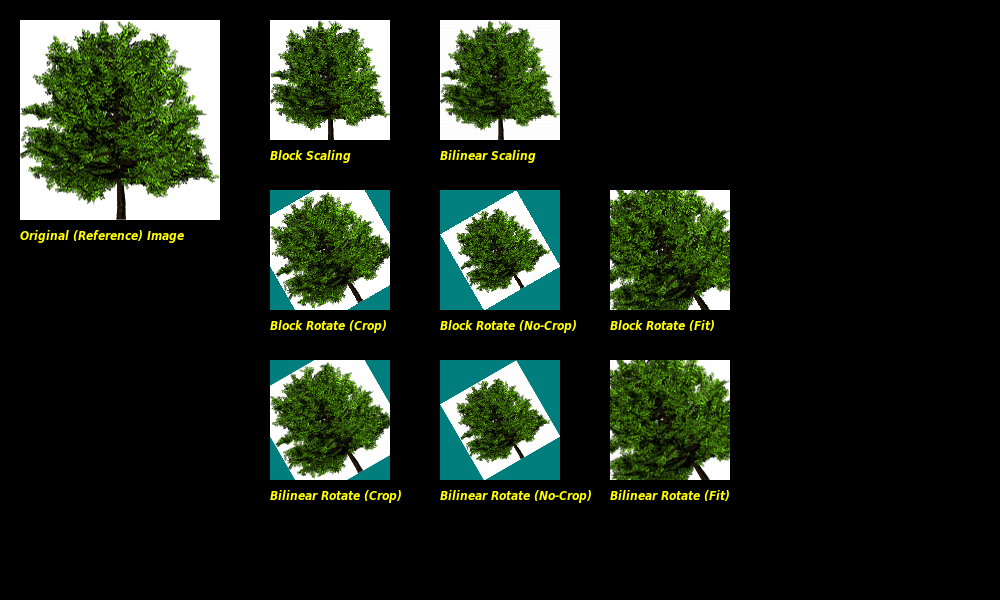
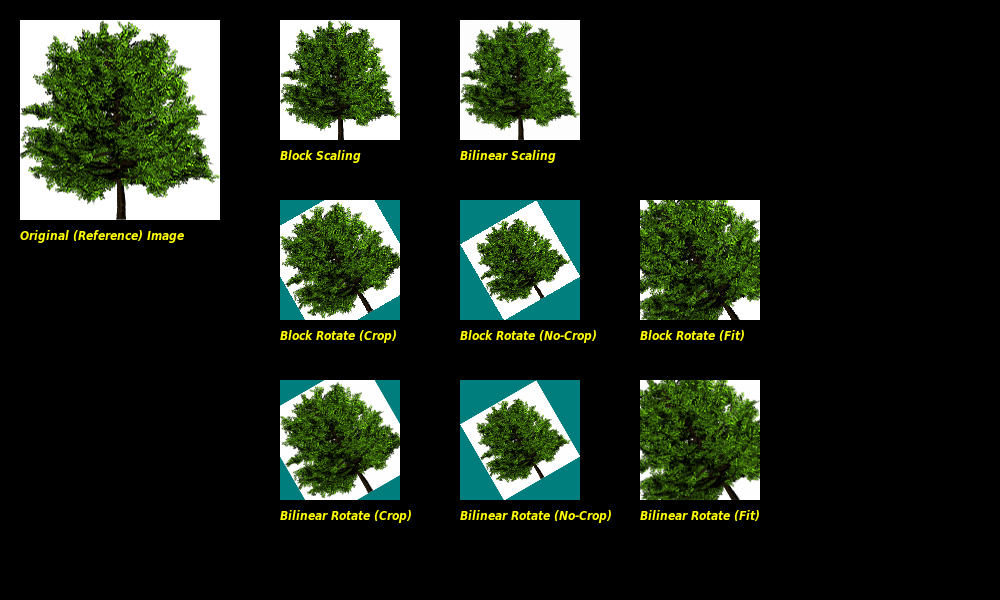
Cleanup

diff --git a/src/Pt-Gfx/tests/ImagePainterTest2_Benchmark.cpp b/src/Pt-Gfx/tests/ImagePainterTest2_Benchmark.cpp
@@ -331,10 +331,10 @@ static void doBenchmarkImageOperation()
         std::clog << "    Image scaling    (block    - argb32  )           = " << std::setw(6) << time2
                   << " (" << std::setw(6) << std::setprecision(3) << (time2 / time1) << ")" << std::setprecision(0) << std::endl;
         time2 = benchImageScalingBlock<0>(BENCHMARK_LOOP_COUNT);
-        std::clog << "    Image scaling  4 (block              )           = " << std::setw(6) << time2
+        std::clog << "    Image scaling  2 (block              )           = " << std::setw(6) << time2
                   << " (" << std::setw(6) << std::setprecision(3) << (time2 / time1) << ")" << std::setprecision(0) << std::endl;
         time2 = benchImageScalingBilinear(BENCHMARK_LOOP_COUNT);
-        std::clog << "    Image scaling  4 (bilinear           )           = " << std::setw(6) << time2
+        std::clog << "    Image scaling  2 (bilinear           )           = " << std::setw(6) << time2
                   << " (" << std::setw(6) << std::setprecision(3) << (time2 / time1) << ")" << std::setprecision(0) << std::endl;
         std::clog << std::endl;
     }
@@ -342,21 +342,21 @@ static void doBenchmarkImageOperation()
     // Image rotation
     if(BENCHMARK_RESULT_HTML || BENCHMARK_IMAGE_OPERATION) {
         time1 = benchImageRotationBlock(BENCHMARK_LOOP_COUNT, ImageOperation2::RotateCrop);
-        std::clog << "    Image rotation 4 (block    - crop    )           = " << std::setw(6) << time1 << std::endl;
+        std::clog << "    Image rotation 2 (block    - crop    )           = " << std::setw(6) << time1 << std::endl;
         time2 = benchImageRotationBlock(BENCHMARK_LOOP_COUNT, ImageOperation2::RotateNoCrop);
-        std::clog << "    Image rotation 4 (block    - no-crop )           = " << std::setw(6) << time2
+        std::clog << "    Image rotation 2 (block    - no-crop )           = " << std::setw(6) << time2
                   << " (" << std::setw(6) << std::setprecision(3) << (time2 / time1) << ")" << std::setprecision(0) << std::endl;
         time2 = benchImageRotationBlock(BENCHMARK_LOOP_COUNT, ImageOperation2::RotateFit);
-        std::clog << "    Image rotation 4 (block    - fit     )           = " << std::setw(6) << time2
+        std::clog << "    Image rotation 2 (block    - fit     )           = " << std::setw(6) << time2
                   << " (" << std::setw(6) << std::setprecision(3) << (time2 / time1) << ")" << std::setprecision(0) << std::endl;
         time2 = benchImageRotationBilinear(BENCHMARK_LOOP_COUNT, ImageOperation2::RotateCrop);
-        std::clog << "    Image rotation 4 (bilinear - crop    )           = " << std::setw(6) << time2
+        std::clog << "    Image rotation 2 (bilinear - crop    )           = " << std::setw(6) << time2
                   << " (" << std::setw(6) << std::setprecision(3) << (time2 / time1) << ")" << std::setprecision(0) << std::endl;
         time2 = benchImageRotationBilinear(BENCHMARK_LOOP_COUNT, ImageOperation2::RotateNoCrop);
-        std::clog << "    Image rotation 4 (bilinear - no-crop )           = " << std::setw(6) << time2
+        std::clog << "    Image rotation 2 (bilinear - no-crop )           = " << std::setw(6) << time2
                   << " (" << std::setw(6) << std::setprecision(3) << (time2 / time1) << ")" << std::setprecision(0) << std::endl;
         time2 = benchImageRotationBilinear(BENCHMARK_LOOP_COUNT, ImageOperation2::RotateFit);
-        std::clog << "    Image rotation 4 (bilinear - fit     )           = " << std::setw(6) << time2
+        std::clog << "    Image rotation 2 (bilinear - fit     )           = " << std::setw(6) << time2
                   << " (" << std::setw(6) << std::setprecision(3) << (time2 / time1) << ")" << std::setprecision(0) << std::endl;
         if(!BENCHMARK_RESULT_HTML) std::clog << std::endl;
     }

diff --git a/src/Pt-Gfx/tests/ImagePainterTest2_ImageOperation.cpp b/src/Pt-Gfx/tests/ImagePainterTest2_ImageOperation.cpp
@@ -13,7 +13,7 @@ static void testImageOperation(const char* title, Image& image, Painter& painter
 
     painter.drawImage(PointF(x, y), textureWithWhiteBackground);
     painter.drawText( PointF(x, y + textureWithWhiteBackground.height() + 20), "Original (Reference) Image" );
-    x += textureWithWhiteBackground.width() + 50;
+    x += textureWithWhiteBackground.width() + 60;
 
     // Scaled and rotated image
     Image srImage( textureWithWhiteBackground.format(), Size(120, 120) );
@@ -22,49 +22,49 @@ static void testImageOperation(const char* title, Image& image, Painter& painter
     ImageOperation2::blockScale(textureWithWhiteBackground, srImage);
     painter.drawImage(PointF(x, y), srImage);
     painter.drawText( PointF(x, y + srImage.height() + 20), "Block Scaling" );
-    x += srImage.width() + 50;
+    x += srImage.width() + 60;
 
     // Bilinear scale
     ImageOperation2::bilinearScale(textureWithWhiteBackground, srImage);
     painter.drawImage(PointF(x, y), srImage);
     painter.drawText( PointF(x, y + srImage.height() + 20), "Bilinear Scaling" );
 
-    x  = 20 + textureWithWhiteBackground.width() + 50;
-    y += srImage.height() + 50;
+    x  = 20 + textureWithWhiteBackground.width() + 60;
+    y += srImage.height() + 60;
 
     // Block rotate - crop
     ImageOperation2::blockRotate(textureWithWhiteBackground, srImage, 30, Color::fromRgb8(0, 127, 127, 255), ImageOperation2::RotateCrop);
     painter.drawImage(PointF(x, y), srImage);
     painter.drawText( PointF(x, y + srImage.height() + 20), "Block Rotate (Crop)" );
-    x += srImage.width() + 50;
+    x += srImage.width() + 60;
 
     // Block rotate - no-crop
     ImageOperation2::blockRotate(textureWithWhiteBackground, srImage, 30, Color::fromRgb8(0, 127, 127, 255), ImageOperation2::RotateNoCrop);
     painter.drawImage(PointF(x, y), srImage);
     painter.drawText( PointF(x, y + srImage.height() + 20), "Block Rotate (No-Crop)" );
 
-    x += srImage.width() + 50;
+    x += srImage.width() + 60;
 
     // Block rotate -fit
     ImageOperation2::blockRotate(textureWithWhiteBackground, srImage, 30, Color::fromRgb8(0, 127, 127, 255), ImageOperation2::RotateFit);
     painter.drawImage(PointF(x, y), srImage);
     painter.drawText( PointF(x, y + srImage.height() + 20), "Block Rotate (Fit)" );
 
-    x  = 20 + textureWithWhiteBackground.width() + 50;
-    y += srImage.height() + 50;
+    x  = 20 + textureWithWhiteBackground.width() + 60;
+    y += srImage.height() + 60;
 
     // Bilinear rotate - crop
     ImageOperation2::bilinearRotate(textureWithWhiteBackground, srImage, 30, Color::fromRgb8(0, 127, 127, 255), ImageOperation2::RotateCrop);
     painter.drawImage(PointF(x, y), srImage);
     painter.drawText( PointF(x, y + srImage.height() + 20), "Bilinear Rotate (Crop)" );
-    x += srImage.width() + 50;
+    x += srImage.width() + 60;
 
     // Bilinear rotate - no-crop
     ImageOperation2::bilinearRotate(textureWithWhiteBackground, srImage, 30, Color::fromRgb8(0, 127, 127, 255), ImageOperation2::RotateNoCrop);
     painter.drawImage(PointF(x, y), srImage);
     painter.drawText( PointF(x, y + srImage.height() + 20), "Bilinear Rotate (No-Crop)" );
 
-    x += srImage.width() + 50;
+    x += srImage.width() + 60;
 
     // Bilinear rotate - fit
     ImageOperation2::bilinearRotate(textureWithWhiteBackground, srImage, 30, Color::fromRgb8(0, 127, 127, 255), ImageOperation2::RotateFit);

diff --git a/src/Pt-Gfx/tests/ImagePainterTest2_Benchmark_ImageOperation.cpp b/src/Pt-Gfx/tests/ImagePainterTest2_Benchmark_ImageOperation.cpp
@@ -113,15 +113,15 @@ x86_64 (i5-4460; 64-Bit Mode)
                                                    ------ --------
 Image scaling    (block    - generic )           =    174
 Image scaling    (block    - argb32  )           =     39 ( 0.224)
-Image scaling  4 (block              )           =     10 ( 0.057)
-Image scaling  4 (bilinear           )           =    125 ( 0.718)
+Image scaling  2 (block              )           =     10 ( 0.057)
+Image scaling  2 (bilinear           )           =    125 ( 0.718)
 
-Image rotation 4 (block    - crop    )           =     40
-Image rotation 4 (block    - no-crop )           =     41 ( 1.025)
-Image rotation 4 (block    - fit     )           =     40 ( 1.000)
-Image rotation 4 (bilinear - crop    )           =    206 ( 5.150)
-Image rotation 4 (bilinear - no-crop )           =    208 ( 5.200)
-Image rotation 4 (bilinear - fit     )           =    208 ( 5.200)
+Image rotation 2 (block    - crop    )           =     40
+Image rotation 2 (block    - no-crop )           =     41 ( 1.025)
+Image rotation 2 (block    - fit     )           =     40 ( 1.000)
+Image rotation 2 (bilinear - crop    )           =    206 ( 5.150)
+Image rotation 2 (bilinear - no-crop )           =    208 ( 5.200)
+Image rotation 2 (bilinear - fit     )           =    208 ( 5.200)
 */
 
 /*
@@ -130,13 +130,13 @@ Arm (v7l; A53; BCM2709; RaspberryPi 3; 32-bit Mode)
 ---------------------------------------------------
 Image scaling    (block    - generic )           =   2459
 Image scaling    (block    - argb32  )           =    495 ( 0.201)
-Image scaling  4 (block              )           =    166 ( 0.068)
-Image scaling  4 (bilinear           )           =   1931 ( 0.785)
+Image scaling  2 (block              )           =    166 ( 0.068)
+Image scaling  2 (bilinear           )           =   1931 ( 0.785)
 
-Image rotation 4 (block    - crop    )           =    693
-Image rotation 4 (block    - no-crop )           =    745 ( 1.075)
-Image rotation 4 (block    - fit     )           =    702 ( 1.013)
-Image rotation 4 (bilinear - crop    )           =   2971 ( 4.287)
-Image rotation 4 (bilinear - no-crop )           =   2811 ( 4.056)
-Image rotation 4 (bilinear - fit     )           =   2976 ( 4.294)
+Image rotation 2 (block    - crop    )           =    693
+Image rotation 2 (block    - no-crop )           =    745 ( 1.075)
+Image rotation 2 (block    - fit     )           =    702 ( 1.013)
+Image rotation 2 (bilinear - crop    )           =   2971 ( 4.287)
+Image rotation 2 (bilinear - no-crop )           =   2811 ( 4.056)
+Image rotation 2 (bilinear - fit     )           =   2976 ( 4.294)
 */

diff --git a/src/Pt-Gfx/tests/ImagePainterTest2.cpp b/src/Pt-Gfx/tests/ImagePainterTest2.cpp
@@ -91,7 +91,7 @@ using namespace Pt::Gfx;
 
 // General settings for Pt-Gfx
 #define DO_TEST_DRAW    1
-#define DO_BENCHMARKING 0
+#define DO_BENCHMARKING 1
 
 // Detailed-test enable settings for Pt-Gfx
 #define TEST_SOURCECOPY                         1
@@ -121,9 +121,9 @@ using namespace Pt::Gfx;
 #define TEST_DRAW_PATH_CLIPPING                 0 // (including path-based text)
 #define TEST_DRAW_EXTRA                         0 // (including path-based n-bezier)
 
-#define TEST_IMAGE_OPERATION                    0
+#define TEST_IMAGE_OPERATION                    1
 #define TEST_SCENE_GRAPH                        0
-#define TEST_SVG_READER                         DEFINE_CONFIG_BITS(2, 1, 2) // (multi-test)
+#define TEST_SVG_READER                         DEFINE_CONFIG_BITS(0, 1, 2) // (multi-test)
 
 #define TEST_COMPARE_WITH_OLD_PAINTER           0 // (for some shapes only)
 
@@ -169,7 +169,7 @@ using namespace Pt::Gfx;
 #define BENCHMARK_GRADIENT_FILLED_ARC       0
 #define BENCHMARK_TEXTURE_FILLED_ARC        0
 
-#define BENCHMARK_PATH                      1
+#define BENCHMARK_PATH                      0
 #define BENCHMARK_IMAGE_OPERATION           1
 
 // Configurations and objects
